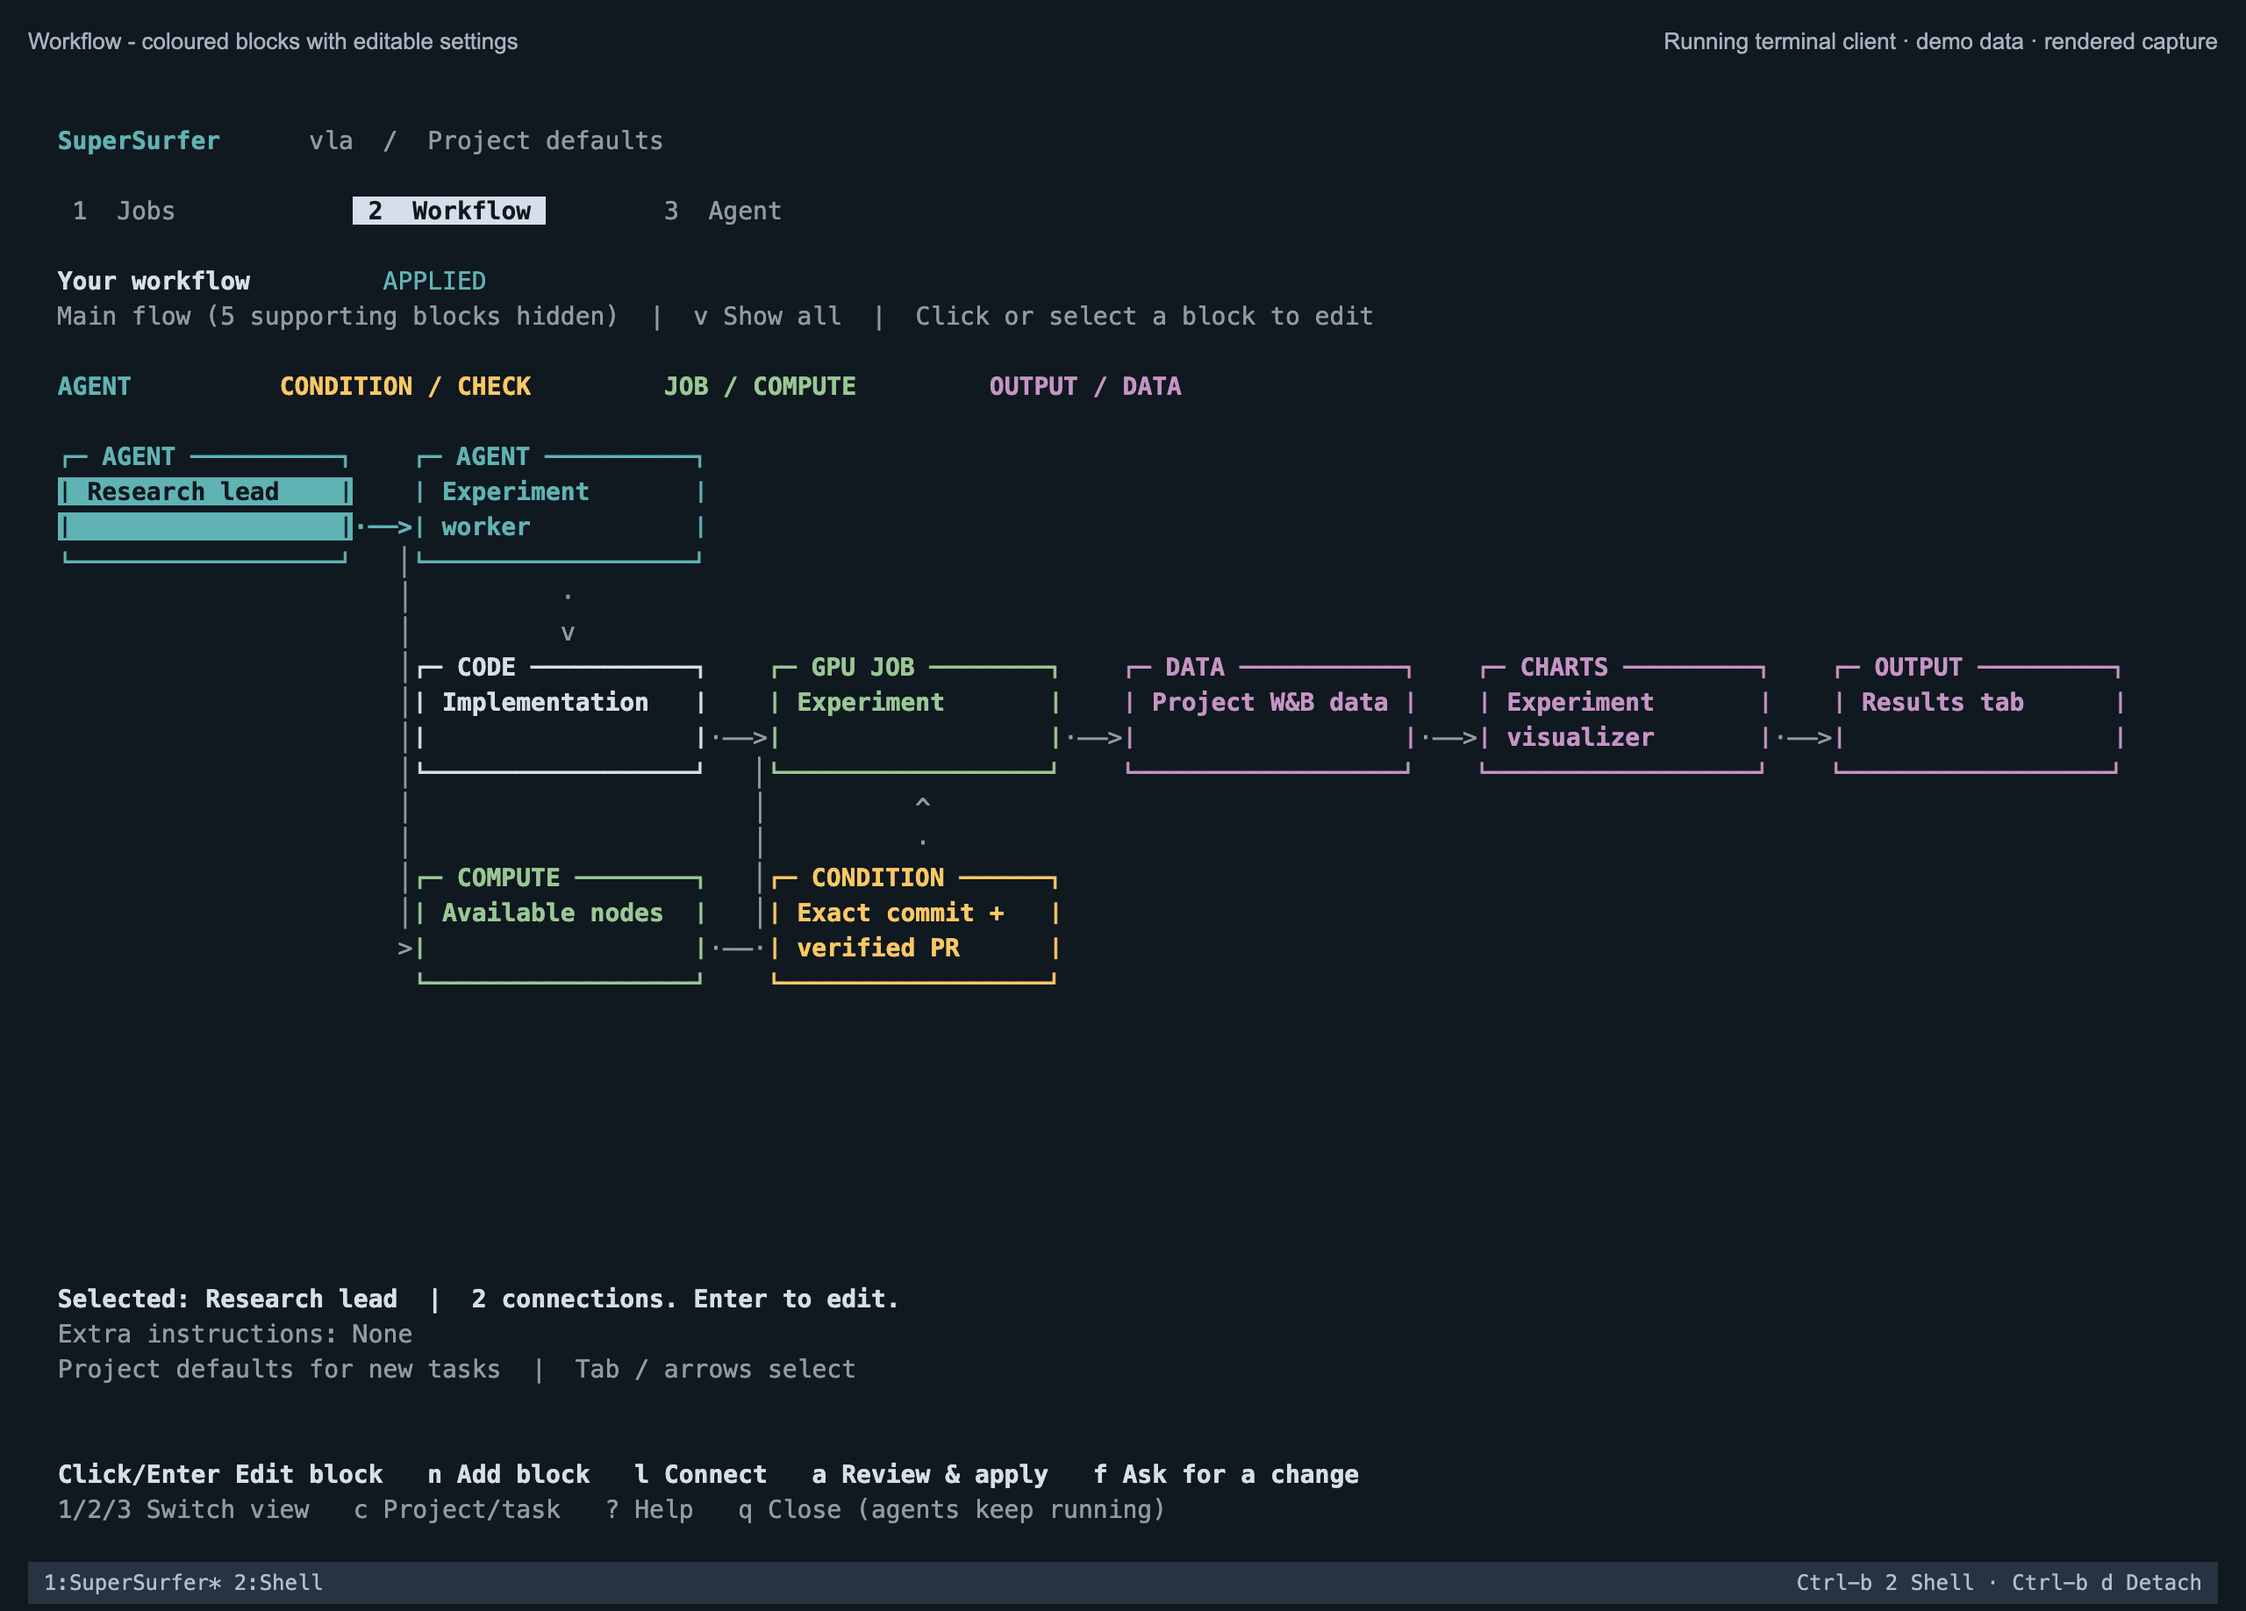
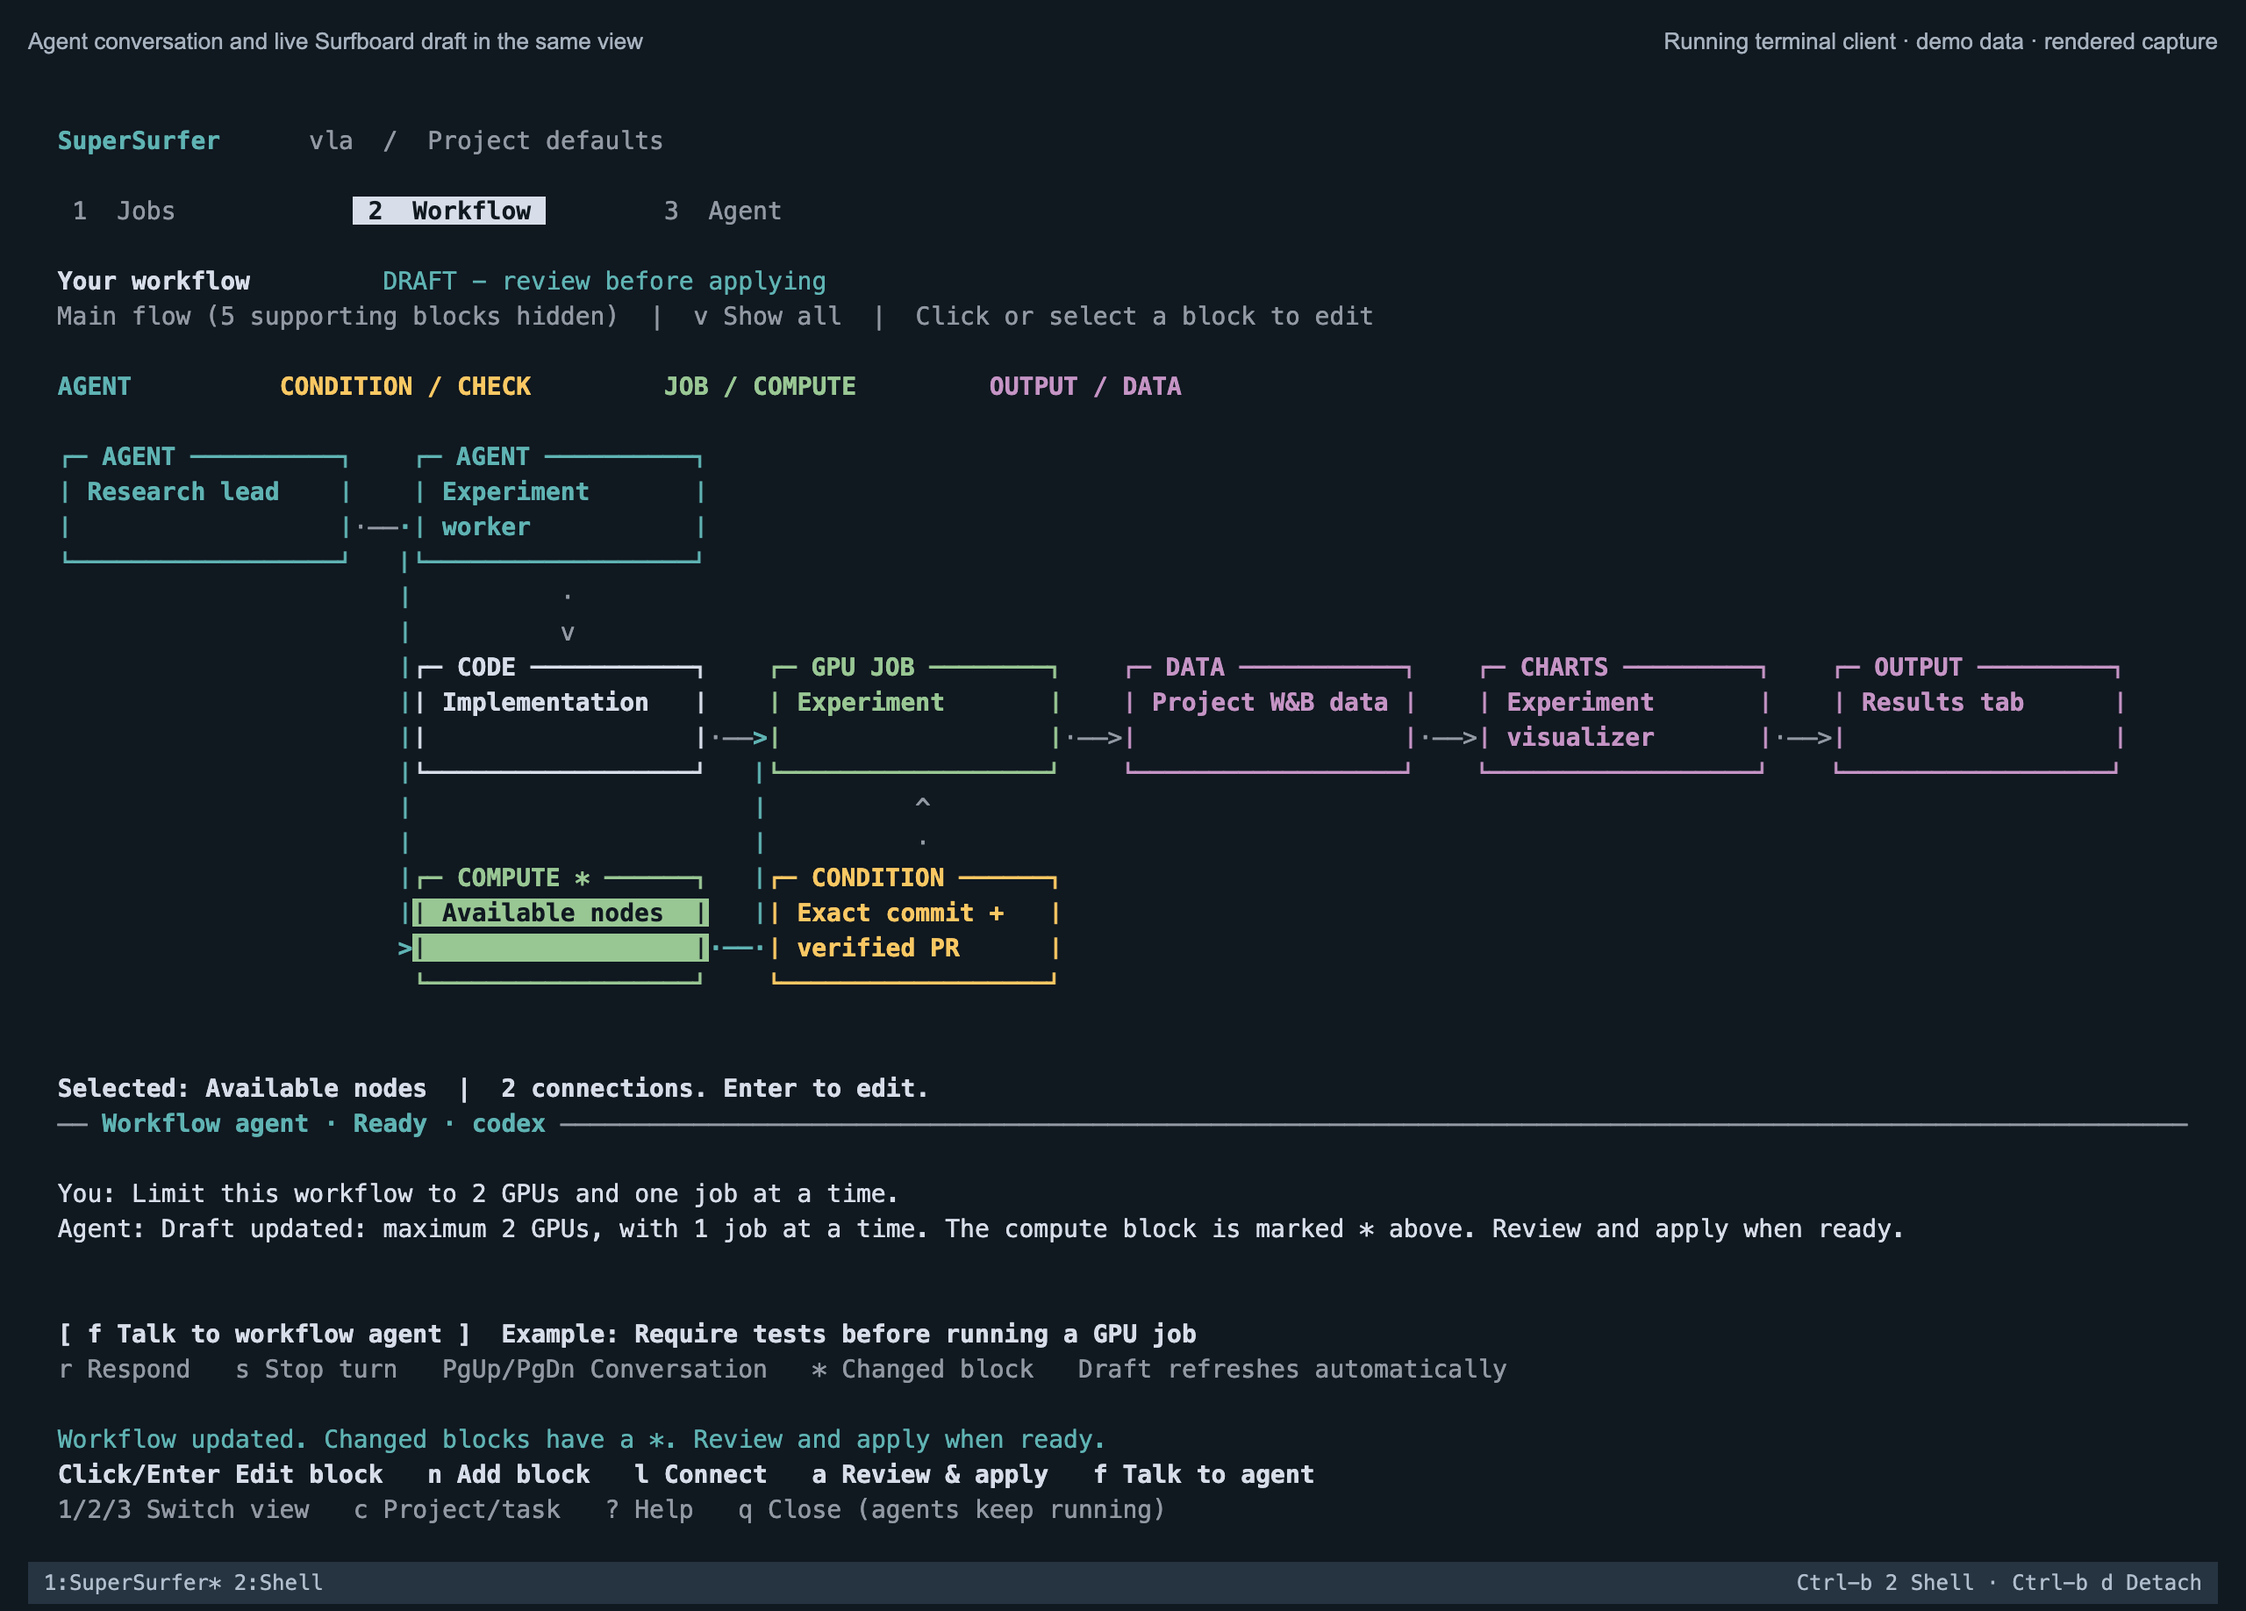
Keep workflow agent chat beside live Surfboard drafts

diff --git a/tests/test_terminal.py b/tests/test_terminal.py
@@ -214,6 +214,41 @@ class TerminalTests(unittest.TestCase):
         dashboard.refresh()
         return dashboard
 
+    def test_workflow_agent_stays_beside_graph_and_resumes_its_conversation(self):
+        dashboard=self.workflow_dashboard()
+        dashboard.workflow_input='Require tests before GPU jobs'
+        dashboard.composing=True
+        dashboard.send_workflow_message()
+        self.assertEqual(dashboard.tab,1)
+        self.assertEqual(dashboard.workflow_scope,'surfboard:p1')
+        self.assertFalse(dashboard.composing)
+        self.assertEqual(dashboard.workflow_input,'')
+        self.assertEqual(self.service.codex.sent[0][0],'surfboard:p1')
+        self.assertIn('draft only; do not apply',self.service.codex.sent[0][1])
+        resumed=self.workflow_dashboard()
+        self.assertEqual(resumed.workflow_scope,dashboard.workflow_scope)
+        self.assertTrue(resumed.workflow_chat['busy'])
+
+    def test_workflow_refresh_shows_agent_draft_and_reply_without_losing_typed_message(self):
+        dashboard=self.workflow_dashboard()
+        original=deepcopy(dashboard.board['board'])
+        dashboard.workflow_input='And limit it to 2 GPUs'
+        dashboard.composing=True
+        envelope=deepcopy(terminal.App.envelope(dashboard.target,dashboard.board))
+        schedule=next(n for n in envelope['board']['nodes'] if n['kind']=='timer')
+        schedule['label']='Daily review'
+        self.client.action('surfboard.draft',**envelope)
+        with patch.object(self.service.codex,'chat',return_value={'scope':'surfboard:p1','messages':[{'role':'assistant','text':'I added the daily review.'}],'busy':False}):
+            dashboard.refresh()
+        self.assertEqual(dashboard.tab,1)
+        self.assertTrue(dashboard.show_all)
+        self.assertEqual(dashboard.rows[dashboard.index]['label'],'Daily review')
+        self.assertIn(schedule['id'],dashboard.changed_nodes)
+        self.assertEqual(dashboard.workflow_chat['messages'][-1]['text'],'I added the daily review.')
+        self.assertEqual(dashboard.workflow_input,'And limit it to 2 GPUs')
+        self.assertTrue(dashboard.composing)
+        self.assertEqual(dashboard.board['board'],original)
+
     def test_dashboard_edits_a_named_setting_as_a_draft(self):
         dashboard = self.workflow_dashboard()
         field = next(f for f in terminal.workflow_fields(dashboard.board['board']) if f['field'] == 'gpu_limit')
@@ -298,6 +333,7 @@ class TerminalTests(unittest.TestCase):
                 if 'CONDITION' in view: break
                 time.sleep(.1)
             self.assertIn('CONDITION', view)
+            self.assertIn('Workflow agent', view)
             # Match the pane's terminfo protocol; tmux translates physical mouse
             # events into X10 on older Mac terminfo and SGR on newer Linux builds.
             term = subprocess.check_output(command + ['show-options','-gv','default-terminal'],text=True).strip()
@@ -323,6 +359,25 @@ class TerminalTests(unittest.TestCase):
                 time.sleep(.1)
             self.assertEqual(next(n for n in state['draft']['board']['nodes'] if n['kind']=='compute')['config']['gpu_limit'],2)
             self.assertEqual(next(n for n in state['board']['nodes'] if n['kind']=='compute')['config']['gpu_limit'],4)
+            # Chat and graph stay visible together. A later service-side draft
+            # edit appears without switching tabs or asking for a refresh.
+            subprocess.run(command+['send-keys','-t','surfer:1.0','f'],check=True)
+            subprocess.run(command+['send-keys','-t','surfer:1.0','-l','Require tests'],check=True)
+            subprocess.run(command+['send-keys','-t','surfer:1.0','Enter'],check=True)
+            deadline=time.monotonic()+5
+            while time.monotonic()<deadline and not self.service.codex.sent: time.sleep(.1)
+            self.assertEqual(self.service.codex.sent[0][0],'surfboard:p1')
+            state=self.client.get('surfboard',project_id='p1')
+            envelope=terminal.App.envelope({'project_id':'p1'},state)
+            next(n for n in envelope['board']['nodes'] if n['kind']=='code')['label']='Live check'
+            self.client.action('surfboard.draft',**envelope)
+            deadline=time.monotonic()+5
+            while time.monotonic()<deadline:
+                view=subprocess.check_output(command+['capture-pane','-p','-t','surfer:1.0'],text=True)
+                if 'Live check' in view and 'Working - draft updates live' in view: break
+                time.sleep(.1)
+            self.assertIn('Live check',view)
+            self.assertIn('Working - draft updates live',view)
             time.sleep(.3)
             subprocess.run(command + ['send-keys', '-t', 'surfer:1.0', 'q'], check=True)
             deadline = time.monotonic() + 5

diff --git a/docs/terminal.md b/docs/terminal.md
@@ -46,8 +46,20 @@ Failure/recovery arrows are shown for the selected block or in Show all.
 Every edit creates a **draft**. Press `a` to review all changes and then explicitly
 apply them. Review includes changes to hidden blocks and settings changed by other
 interfaces. Version checks prevent overwriting a newer draft while editing or
-reviewing. `d` reviews/discards a draft. `f` asks the persistent workflow editor to
-propose a change in plain language and opens its conversation. Advanced JSON editing
+reviewing. `d` reviews/discards a draft.
+
+The **Workflow agent** stays visible below the flowchart. Click its message field
+or press `f`, type what you want, and press Enter. The same persistent agent replies
+there and changes the draft above as it works, without switching views. The graph
+and conversation refresh every second, including while you type. Changed blocks
+get a `*` and scroll into view; changed supporting blocks reveal Show all. Follow-up
+messages use the same conversation and the provider's existing steering behavior.
+`r` handles questions and approvals, `s` stops its turn, and PgUp/PgDn scroll its
+history. Esc leaves typing with the unsent text retained; Ctrl-U clears the input.
+Agent changes stay drafts until you review and apply them. Ordinary block dialogs
+temporarily pause screen refresh; closing them resumes the live view.
+
+Advanced JSON editing
 is available with `x`; dragging blocks and bulk library rollout remain in the desktop.
 
 Use `c` to choose a project and task. Project defaults apply to new tasks; existing

diff --git a/VALIDATION.md b/VALIDATION.md
@@ -6,10 +6,12 @@ the coloured flowchart and its block-editing dialog. Demo jobs and provider repl
 are simulated; no live workspace is changed. The desktop Terminal app is unavailable
 to computer automation, so PNGs render the captured terminal cells and ANSI colours.
 
-The 25-test focused suite passes, including real mouse input (using the pane's
+The 27-test focused suite passes, including persistent same-view workflow chat,
+live external draft changes in native tmux, reply/draft refresh that preserves
+unsent input, and real mouse input (using the pane's
 advertised X10/SGR protocol), dashboard startup/reconnect, adding a command check
 and its actual `requires` edge, named setting edits, complete change review,
-concurrent draft rejection and all earlier queue/chat protections. The ordinary
+concurrent draft rejection and all earlier queue/chat protections. Before the two live-chat cases were added, the ordinary
 Python suite ran 773 tests: 732 passed, 34 skipped and the same seven previously
 verified system-rsync failures. Node tests pass 37, with five optional SSH skips.
 Capability-skill validation, Python compilation and whitespace checks pass.

diff --git a/CONTRACT.md b/CONTRACT.md
@@ -9,6 +9,12 @@ selection opens a block editor; add, rename, settings, connect and remove operat
 all create version-checked drafts. Connection choices come from the server catalog.
 Apply reviews every changed field, including changes outside the main view, and
 requires explicit confirmation. JSON editing remains an advanced option.
+The workflow's persistent configurator conversation is always shown below the
+flowchart. Inline message composition preserves live one-second draft/chat refresh;
+changed blocks are marked and revealed, and unsent text survives refresh. Follow-up
+messages use the existing `surfboard.ask` send/steer path. Questions, approvals,
+stop and history are available in the same view. Block-edit dialogs temporarily
+pause refresh. Agent requests explicitly ask for drafts pending review/application.
 
 The standalone `surfer` Python client connects to an existing authenticated
 loopback workspace service. It uses a separate tmux server and does not install,

diff --git a/agent_skills/supersurfer-workflow/SKILL.md b/agent_skills/supersurfer-workflow/SKILL.md
@@ -26,6 +26,9 @@ The terminal's default dashboard exposes Jobs, a coloured Workflow flowchart and
 Agent chat. Users can click blocks to edit settings and connections, then review
 and apply their draft. The main view hides supporting blocks for readability;
 this never changes the board's actual nodes, requirements or tools.
+Its workflow-agent conversation stays below the graph: draft changes and replies
+appear live while the user types follow-ups. Respect its explicit draft-only
+requests; use questions for clarification and leave application to the user's review.
 
 The desktop reports bounded SSH upload/setup progress; a connection error does
 not establish that a configured check or remote preview failed. Reconnect through

diff --git a/README.md b/README.md
@@ -13,7 +13,8 @@ exclusions for source checks, and fixes recovery steering and editor shortcuts.
 
 - **Work from a terminal.** The standalone [`surfer`](docs/terminal.md) client
   opens Jobs, Workflow and Agent screens in tmux. Manage named GPU jobs, click
-  coloured Surfboard blocks to edit them, and reconnect to persistent agents.
+  coloured Surfboard blocks to edit them, and talk to a persistent workflow agent
+  while its draft changes appear live in the same view.
 - **Build your own workflow.** Connect agents, instructions, checks, compute and
   results on a **Surfboard**. Start by telling an agent what you want to build,
   or choose a saved workflow. Review its views and steps, refine them in chat,

diff --git a/TODO.md b/TODO.md
@@ -2,6 +2,7 @@
 
 - [x] Standalone tmux client with Jobs, Workflow and Agent dashboard screens.
 - [x] Coloured Surfboard flowchart, mouse/keyboard block editing, add/connect/remove and review/apply.
+- [x] Persistent workflow-agent chat alongside the graph, live draft updates and inline follow-ups.
 - [x] Project/task Surfboard editing, recoverable drafts and version-checked apply.
 - [x] Existing persistent conversation access, provider selection, questions and approvals.
 - [ ] Dragging/repositioning blocks and named-library bulk rollout remain desktop features.
